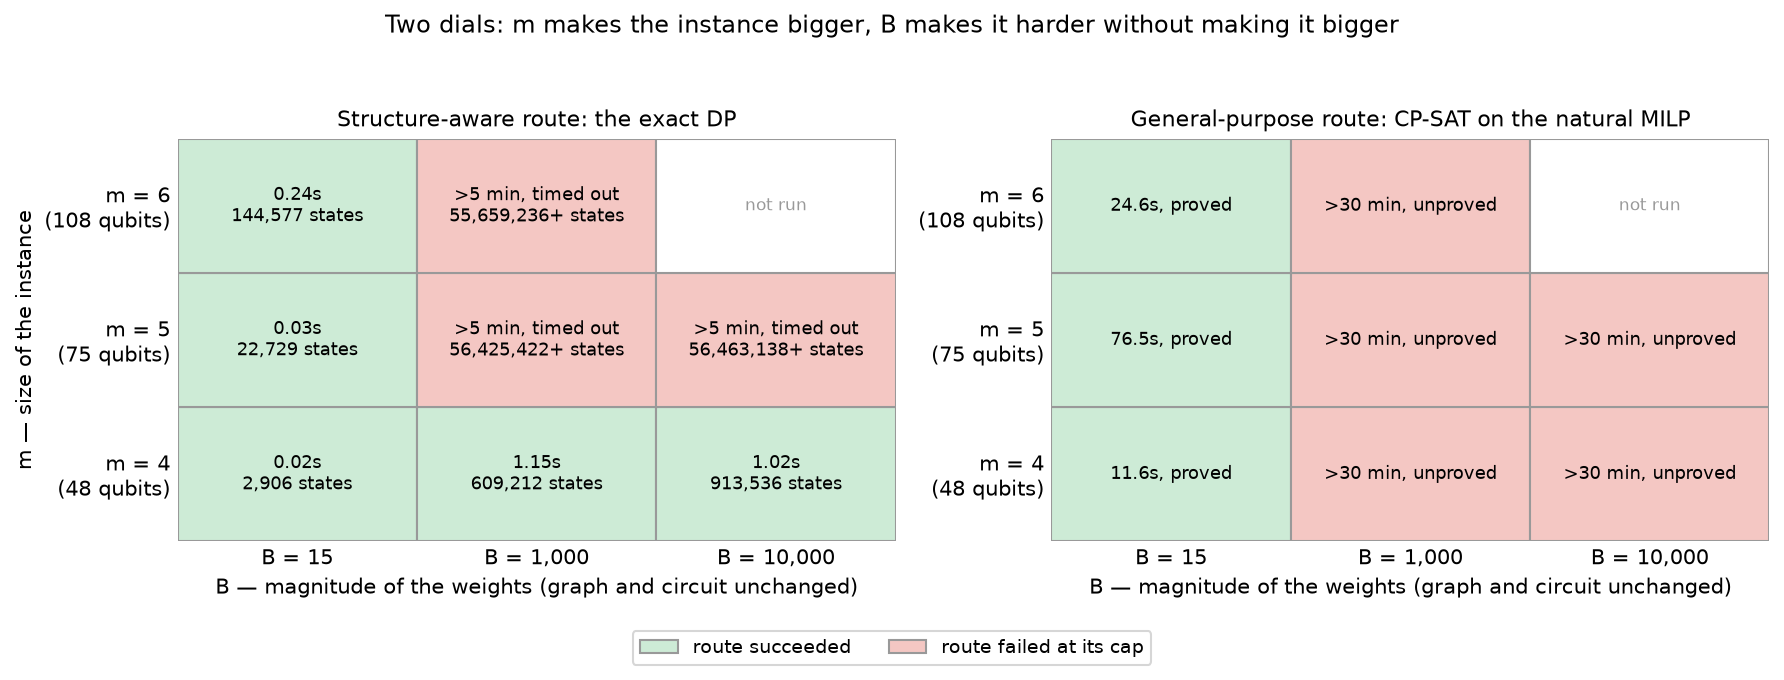
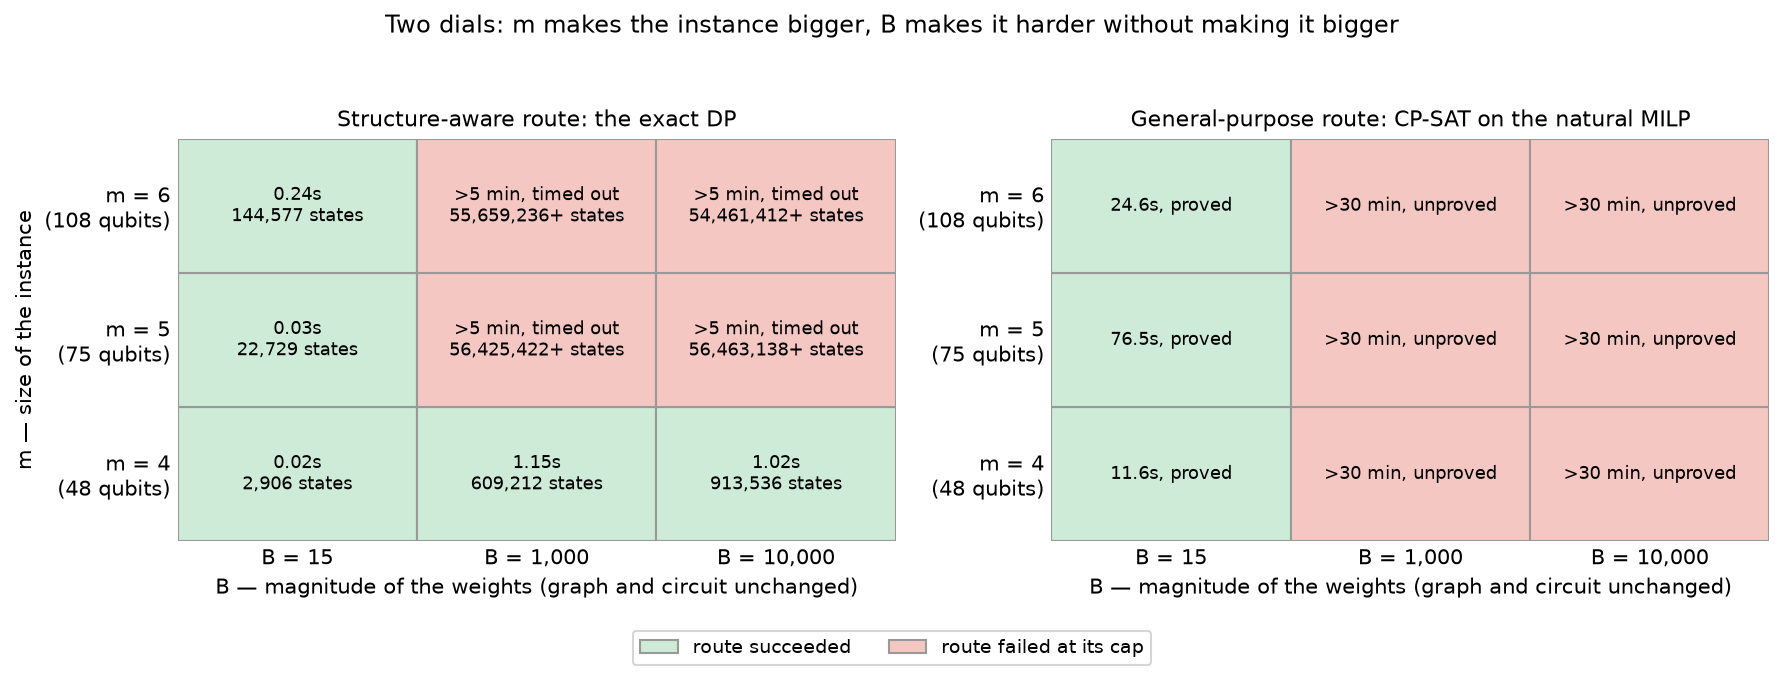
Distil the README and bring it in line with the repo: one home per idea, and the objective attempt stated
Distillation: the hard-instance mixer is now described once, in the
subsection titled "why its circuit is small", instead of there and
again in Results; the DP caveat is explained once; opening bullet 2 is
an answer rather than a preview of the whole section; restating
sentences and forward references cut. 435 -> 431 lines, the count
understating it because the objective paragraph below was added.

Coherence: the scope section said question 1 "has no objective". A
cycle-basis physical objective was built and measured exhaustively on
IEEE33 (docs/cycle-surrogate.md): exact where ties' cycles are
disjoint, failing in a quantified way where they overlap -- and real
ties overlap by design. The README now says that, points to the doc,
lists its verify scripts under reproduce, and uses the result to close
the third objection: the objective's globality is the structural-vs-
combinatorial reconciliation observed from the other side.

Also fixed from a cold read: "Tier 1 got cheap" (10,712 CX is not
cheap -- the cap is what makes it buildable); "two measurements" when
Results has three; the 65-node vs 17-node encodings of the same m=4
instance now reconciled in one parenthetical. Grid figure regenerated
with the final sweep cell.

Changed region(s): [[0.8324, 0.1853, 1.0, 0.4015], [0.37, 0.1853, 0.5241, 0.4015]]

diff --git a/README.md b/README.md
@@ -24,13 +24,9 @@ questions about it, in order:
    grids.
 2. **Is this problem actually hard enough to need quantum?** For real
    grids, honestly, no — a classical solver walks them. But there is a
-   provably hard *family* of the same problem. This repo builds
-   instances from it, measures a general-purpose solver giving up on
-   them, and shows the circuit for them is small. One caveat — a
-   structure-aware classical shortcut exists at small weights — is
-   stated where it arises, and closed by a second experiment that turns
-   the weights up: there, every classical route tried fails on a
-   measured 75-qubit instance whose circuit is no bigger than before.
+   provably hard *family* of the same problem, and this repo exhibits
+   an instance of it on which every classical route tried fails — at 75
+   qubits, with a circuit no bigger than the easy cases.
 
 The second question is the one most quantum-optimization work skips.
 
@@ -68,24 +64,22 @@ the network, and needs a gate controlled on many qubits — expensive.
 
 ![A tie edge's fundamental cycle, short vs long](results/illustration_fundamental_cycle.png)
 
-Real tie switches are long-range on purpose: they exist to reroute
-power around a fault, so they deliberately link *distant* parts of a
-feeder. Measured on published topologies, real ties span 33–45% of the
-network's diameter. Real topology is the expensive case, and everything
-in the next section is about paying that cost down.
+Real tie switches are long-range on purpose — that is what lets them
+reroute around a fault. Measured on published topologies, they span
+33–45% of the network's diameter. Real topology is the expensive case,
+and everything in the next section is about paying that cost down.
 
 ### Two ways to make it cheap
 
 **Tier 1 — whole graph, for fault-tolerant hardware.** Build the mixer
 on the entire network, but cap how many qubits any single term may
 condition on (that set of qubits is the term's **witness**). Where the
-cap bites, the term becomes slightly imprecise:
-a small, *measured* fraction of probability can leak into infeasible
-states. The search that chooses each term's condition has to weigh
-circuit cost against that leakage explicitly — letting it minimize
-leakage alone drives cost up by orders of magnitude. Done right, this
-gives a complete, fully connected mixer at a cost fault-tolerant
-hardware can absorb.
+cap bites, the term becomes slightly imprecise: a small, *measured*
+fraction of probability can leak into infeasible states. The search
+that chooses each term's condition has to weigh circuit cost against
+that leakage explicitly — letting it minimize leakage alone drives cost
+up by orders of magnitude. Done right, this gives a complete, fully
+connected mixer at a cost fault-tolerant hardware can absorb.
 
 **Tier 2 — zones, for today's hardware.** Cut the network into small
 zones along its tie lines, build a Tier 1 mixer inside each zone, and
@@ -95,19 +89,20 @@ result is a valid tree, so the decomposition itself cannot leak. Then
 enforce a cost budget: transpile each piece, check its real gate count,
 and split or retune any piece that comes in over the line.
 
-Two honest limits. Tier 2 searches only trees that stay connected
-*inside* every zone — a subset of all feasible configurations, so an
-optimum that doesn't respect the zone boundaries is out of reach. And
-leakage inside a zone is prevented in practice by keeping zones small,
-not by construction. The 500-CX budget is a target the algorithm
-recurses toward; the finding is that on every instance tested it got
-there without leaking and without ever needing its last-resort
-fallback (loosening a zone's leakage cap to buy cost).
+Two limits, stated plainly. Tier 2 searches only trees that stay
+connected *inside* every zone — a subset of all feasible configurations,
+so an optimum that doesn't respect the zone boundaries is out of reach.
+And leakage inside a zone is prevented in practice by keeping zones
+small, not by construction. The 500-CX budget is likewise a target the
+algorithm recurses toward, not an independent outcome; the finding is
+that on every instance tested it got there without leaking and without
+ever needing its last-resort fallback (loosening a zone's leakage cap
+to buy cost).
 
 ![A graph partitioned into zones, plus the contracted assembly problem](results/illustration_decomposition.png)
 
 *(A third, simpler construction — exact conditioning with no cap — is
-the baseline both tiers grow from. It is not a tier: when no small
+the baseline both tiers grow from, not a tier itself: when no small
 exact condition exists it silently drops the exchange, and on real
 topology that leaves the mixer disconnected. `docs/circuit-validity.md`
 traces that failure.)*
@@ -140,21 +135,18 @@ every tie is long-range, and the number of ties grows only
 logarithmically with network size. That second fact comes from real
 data — thin data, three published feeders being all that exist at this
 scope, but consistent: from 15 to 179 buses the ratio of ties to buses
-falls about 6×, which is what logarithmic growth looks like. Larger real grids
-don't get proportionally more redundancy, just a little more.
+falls about 6×, which is what logarithmic growth looks like.
 
 ![Synthetic feeders with real-topology tie statistics: the two tiers (mean over 3 seeds, bars = min–max)](results/construction_progression_plot.png)
 
 At the largest size (150 nodes, 156 qubits), Tier 1 costs 10,712 CX at
-depth ~18,600; Tier 2 costs 337 CX at depth ~650. That is under the
-500-CX line, but by the yardstick above it is viable on trapped-ion
-hardware and marginal on superconducting. Cost alone isn't the whole
-question, though: Tier 1 gets its cost down by capping conditions, so
-it has to be asked how much exactness the cap gave up. The answer is
-mean leakage of up to 9%, with roughly a third of starting
-configurations leaking at all. Tier 2, asked the same question, gave up
-nothing on any instance tested. Cheaper *and* exact in practice, not a
-tradeoff.
+depth ~18,600; Tier 2 costs 337 CX at depth ~650 — under the 500-CX
+line, though by the yardstick above that is viable on trapped-ion
+hardware and marginal on superconducting. Cost isn't the whole
+question: Tier 1 is only buildable at all because it caps conditions,
+so what did the cap give up? Mean leakage of up to 9%, with roughly a third of starting
+configurations leaking at all. Tier 2 gave up nothing on any instance
+tested — cheaper *and* exact in practice, not a tradeoff.
 
 **The real feeders** are the transfer test: topology nobody designed to
 be convenient. Both tiers were built on the CIGRE MV benchmark (15
@@ -217,9 +209,7 @@ weight per bucket: every item weighs between B/4 and B/2, so exactly
 three fit in each, and the question is whether the items can be split
 into m groups weighing exactly B. B sets the *magnitude of the
 weights* and nothing else — raising it changes the numbers written on
-the items, not the node count and not the qubit count. That
-distinction is the whole story of the experiment at the end of this
-section.
+the items, not the node count and not the qubit count.
 
 ![The hard instance: almost every edge is forced; only the item-to-bucket choice is free](results/illustration_partition_gadget.png)
 
@@ -228,18 +218,38 @@ enumerating the feasible set, and here that set is astronomically
 large — which is precisely *why* the instance is hard. The way in is
 the hardness proof itself. It shows that almost every edge is forced
 into every optimal tree, and the only free choice — which bucket each
-item joins — is independent from item to item. Independent choices
-need no conditioning, so the mixer needs no witness search at all. The
+item joins — is independent from item to item.
+
+That independence is what the mixer exploits. Its encoding is one
+small register per item with one qubit per bucket, exactly one of which
+is on: *this item sits in that bucket*. Its only move slides that
+single 1 to another position in the register — the item changes bucket.
+The gate that does it is the same two-qubit exchange rotation Question
+1's mixer uses, but with none of its conditioning: it acts only when
+exactly one of the pair is on and leaves both-off and both-on states
+alone, so it can move the 1 but never duplicate or lose it, and every
+register keeps exactly one bucket lit by construction (checked exactly
+— a register's full set of swaps conserves its number of on-qubits for
+every possible input). The proof is what makes the move *always* legal:
+an item's leaves follow it wherever it goes and every bucket is
+permanently connected to the root, so any bucket is a valid destination
+no matter where every other item sits. No swap needs a witness — no
+controlled gates, no search for conditions.
+
+Now count. Qubits: items × buckets. Mixer gates: one swap per item per
+pair of buckets. Cost gates: one term per pair of items per bucket. B
+appears in none of them — it enters only as the *angles* dialed into
+the cost rotations, which are proportional to the item weights. The
 result: 48 qubits with about 800 two-qubit gates cover a 65-node
-instance, and the circuit's size depends only on the number of buckets
-and items — not on the weights.
+instance, and raising B from 15 to 10,000 changes the numbers on the
+dials and nothing about the circuit's shape.
 
 ### Results
 
-Two measurements and one argument, each answering an objection a
-skeptical reader should raise.
+Each result below answers an objection a skeptical reader should
+raise.
 
-**"A classical solver would just handle it."** The honest measure of
+**"A classical solver would just handle it."** The right measure of
 classical hardness is not how fast a solver *finds* a good tree —
 heuristics do that quickly on almost anything — but how fast it can
 *prove* the tree is optimal.
@@ -250,61 +260,31 @@ CP-SAT's proof time grows from a few seconds on a 65-node instance to a
 30-minute timeout, proof unfinished, at 177 nodes. Every point is
 cross-checked against an independent exact calculation — and that
 calculation is the caveat. It is a dynamic program that exploits the
-very structure the hardness proof exposes, and at the fixed B=15 used
-here it runs in milliseconds. So what fails is a general-purpose
-solver on the natural formulation, not every classical route. Genuine
-hardness needs B to grow — which inflates every classical route but
-leaves the quantum circuit's size untouched, since B changes the
-weights and not the qubit count.
+very structure the hardness proof exposes, and at B=15 it runs in
+milliseconds, because weights drawn from {4,5,6,7} produce only a few
+thousand distinct partial sums. So what fails at B=15 is a
+general-purpose solver on the natural formulation, not every classical
+route. Genuine hardness needs B to grow — which inflates every
+classical route and, as just counted, leaves the circuit untouched.
 
-So that experiment was run. Weights were drawn at random with B raised
-to 1,000 and 10,000, at the same instance sizes, and both classical
-routes were given their caps. (For this run the weights are encoded as
-nodal demands rather than as leaf nodes — Khodabakhsh's original form,
-and how the DP and the circuit already worked — so the graph stays at
-1 + m + 3m nodes no matter how large B gets. The graph is not what B
-grows.)
+So B was turned up: random weights at B=1,000 and 10,000, same sizes,
+both classical routes given their caps. (Weights are encoded as nodal
+demands — Khodabakhsh's original form — rather than as leaf nodes, so
+the graph stays at 1 + m + 3m nodes at every B: 17 at m=4, where the
+leaf encoding above had 65. The graph is not what B grows.)
 
 ![Two dials: m makes the instance bigger, B makes it harder without making it bigger](results/large_b_grid_plot.png)
 
-Read it by column. At B=15 both routes succeed at every size: the DP
-because weights from {4,5,6,7} produce only a few thousand distinct
-partial sums, CP-SAT because the instance is small. Raise B and the
-columns turn red. CP-SAT fails at *every* size — even m=4, a 17-node
-graph, is unproved after 30 minutes — because it is the proof, not the
-search, that large weights defeat. The DP survives one row longer: at
-m=4 it still finishes in a second, because its work is bounded by the
-number of distinct partial sums, which at m=4 tops out near a million.
-At m=5 that bound is a quarter of a billion; the DP passed 56 million
-states in five minutes and stopped. So the cell that settles it is
-m=5, B=1,000: **both classical routes fail, on one measured instance,
-at 75 qubits** — and the circuit for it is the B=15 circuit with
-different angles.
-
-**Why the circuit doesn't grow with B.** The mixer's encoding is one
-small register per item with one qubit per bucket, exactly one of
-which is on: *this item sits in that bucket*. Its only move is to slide
-that single 1 from one position in a register to another — the item
-changes bucket. The gate that does it is the same two-qubit exchange
-rotation Question 1's mixer uses, but with none of its conditioning:
-it acts only when exactly one of the pair is on and leaves both-off and
-both-on states alone, so it can move the 1 but never duplicate or lose
-it, and every register keeps exactly one bucket lit by construction
-(checked exactly — a register's full set of swaps conserves its number
-of on-qubits for every possible input). What the hardness proof
-licenses is that this move is *always* legal: an item's leaves follow
-it wherever it goes and every bucket is permanently connected to the
-root, so any bucket is a valid destination no matter where every other
-item sits. That is why no swap needs a witness — no controlled gates,
-no search for conditions.
-
-Now count what's left. Qubits: items × buckets. Mixer gates: one swap
-per item per pair of buckets. Cost gates: one term per pair of items
-per bucket. B appears in none of them. It enters only as the *angles*
-dialed into the cost rotations, which are proportional to the item
-weights. Raising B from 15 to 10,000 changes the numbers on the dials
-and nothing about the circuit's shape — which is what makes B the one
-dial the classical routes feel and the quantum circuit does not.
+Read it by column. At B=15 both routes succeed at every size. Raise B
+and the columns turn red. CP-SAT fails at *every* size — even m=4, a
+17-node graph, is unproved after 30 minutes — because it is the proof,
+not the search, that large weights defeat. The DP survives one row
+longer: its work is the number of distinct partial sums, which at m=4
+tops out near a million and it finishes in a second; at m=5 the bound
+is a quarter of a billion, and it passed 56 million states in five
+minutes and stopped. So the cell that settles it is m=5, B=1,000:
+**both classical routes fail, on one measured instance, at 75 qubits**
+— and the circuit for it is the B=15 circuit with different angles.
 
 **"A classical computer could just simulate that circuit."** A small
 circuit only matters if it can't be shortcut classically. The strongest
@@ -324,22 +304,25 @@ plateaus around 8% and stops improving. *Right*: MPS's running time at
 the largest bond dimension tried, as the instance grows, against a
 dashed line showing what the time would be if it grew only with the
 circuit's gate count. The measured time pulls away from that line —
-about 3× above it by m=6 — and exceeds its budget at m=7. The excess
-is the price of representing entanglement, not the circuit getting
-bigger. So MPS is wrong where it can be checked, and increasingly slow
-where it can't. This was one simulator at modest bond dimension,
-though; a stronger tensor-network attempt is the obvious next test.
+about 3× above it by m=6, over budget at m=7 — and the excess is the
+price of representing entanglement, not of the circuit getting bigger.
+So MPS is wrong where it can be checked, and increasingly slow where it
+can't. This was one simulator at modest bond dimension, though; a
+stronger tensor-network attempt is the obvious next test.
 
 **"Then the two halves of this repo contradict each other."** The hard
-instance needed a *simpler* mixer than the real grids did — the
-unconditioned swaps just described. That is not a contradiction — it is
-the key to how the halves fit. Real grids are
+instance needed a *simpler* mixer than the real grids did. That is not
+a contradiction — it is the key to how the halves fit. Real grids are
 *structurally* hard to stay feasible on — long loops, expensive
 conditions — but *combinatorially* easy to solve. The hard family is
 the mirror image: structurally trivial, combinatorially hard in
 general. Each construction handles the axis its problem actually has.
-Whether an instance exists that is hard on both axes at once is an open
-question this repo does not answer.
+The same wall shows up from the other side: an attempt to give real
+feeders a local physical objective by re-parameterizing along tie
+cycles is exact only where cycles don't overlap — and on IEEE33 they
+overlap by design (`docs/cycle-surrogate.md`). Whether an instance
+exists that is hard on both axes at once is an open question this repo
+does not answer.
 
 Full account: `docs/hard-instance-case-study.md`.
 
@@ -347,16 +330,22 @@ Full account: `docs/hard-instance-case-study.md`.
 
 Question 1 shows the mixer is correct and cheap enough for both
 hardware tiers. It does not show a quantum algorithm beating a
-classical one: there is no objective, no QAOA run, and no test of the
-boundary-coupling loop a real decomposed optimization would need.
+classical one: there is no working objective, no QAOA run, and no test
+of the boundary-coupling loop a real decomposed optimization would
+need. The objective is not for lack of trying — the physical loss
+depends on flow, and flow is a global property of the tree. The natural
+way around that, a cycle-basis surrogate that is exact when ties'
+cycles don't overlap, was built and measured exhaustively on IEEE33:
+real ties overlap by design, and the surrogate fails there in a
+quantified way (`docs/cycle-surrogate.md`). The route that survives is
+Tier 2 with a physical objective inside each zone — scoped, not built.
 
-Question 2 adds an objective, a real solver comparison, and a
-simulation comparison, and at large weights exhibits an instance on
-which every classical route tried fails — but on purpose-built
-instances, against two classical routes, and it stops short of
-demonstrating advantage. Solution quality at the genuinely hard sizes
-is unmeasured, because both classical ways of checking it hit walls
-first. The case study says so, with numbers.
+Question 2 adds an objective, a solver comparison, and a simulation
+comparison, and exhibits an instance on which both classical routes
+tried fail. It does not demonstrate advantage: the instances are
+purpose-built, two routes are not all routes, and solution quality at
+the hard sizes is unmeasured because both classical ways of checking it
+hit walls first. The case study says so, with numbers.
 
 Nothing broader is claimed for either. This is a measurement study,
 not a production mixer-compilation library; `methodology.md` has the
@@ -379,6 +368,10 @@ python scripts/verify_correctness.py && python scripts/verify_leakage_trace.py
 
 python scripts/run_real_networks_hierarchical.py
 # the real-network figures above: both tiers, both networks, 5 seeds each.
+
+python scripts/verify_cycle_surrogate.py && python scripts/verify_cycle_surrogate_full.py
+# the cycle-basis objective attempt: exact where cycles are disjoint,
+# measured failure on IEEE33 where they overlap (docs/cycle-surrogate.md).
 ```
 
 **Question 2 — the hard instance:**
@@ -406,9 +399,9 @@ python scripts/plot_results_figures.py && python scripts/plot_illustrations.py
 
 The circuit-construction scripts are deterministic (fixed seeds) and
 reproduce the committed `results/` files, modulo library versions. The
-CP-SAT sweep runs 8 parallel workers and its *timings* vary run to run
-by up to ~2×; its objective values do not. Further investigations use
-the scripts indexed in `docs/repository-map.md`.
+CP-SAT sweeps run 8 parallel workers and their *timings* vary run to
+run by up to ~2×; their objective values do not. Further investigations
+use the scripts indexed in `docs/repository-map.md`.
 
 ## Repository layout
 
@@ -423,8 +416,12 @@ the scripts indexed in `docs/repository-map.md`.
 - `docs/scaling-ladder-and-decomposition.md` — the synthetic ladder,
   Tier 2 in full, safety measurements, and the real-network validation.
   Everything in question 1's results traces back to it.
+- `docs/cycle-surrogate.md` — the attempt to give question 1 a physical
+  objective: the cycle-basis surrogate, where it is exact, and its
+  measured failure on real overlapping ties.
 - `docs/hard-instance-case-study.md` — question 2 in full: the
-  instance, the solver curve, the small circuit, and the MPS check.
+  instance, the solver curve, the small circuit, the MPS check, and the
+  large-B sweep.
 - `scripts/` and `results/` — one script per measurement, one CSV/plot
   pair per script, all generated, none hand-edited. Full index:
   `docs/repository-map.md`.
